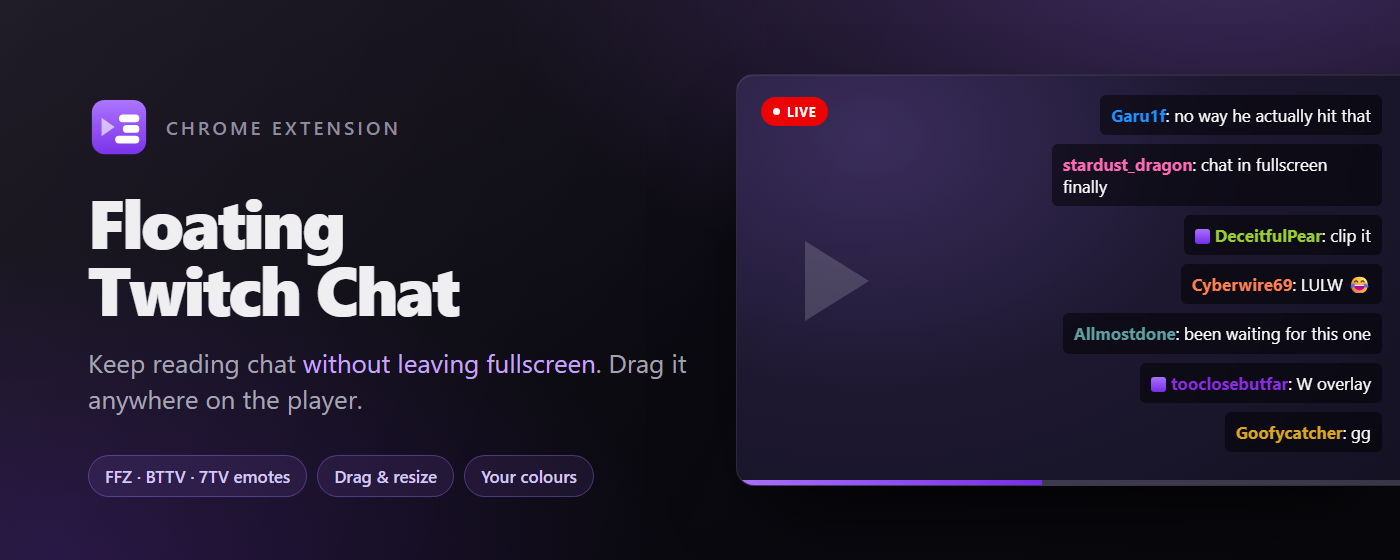
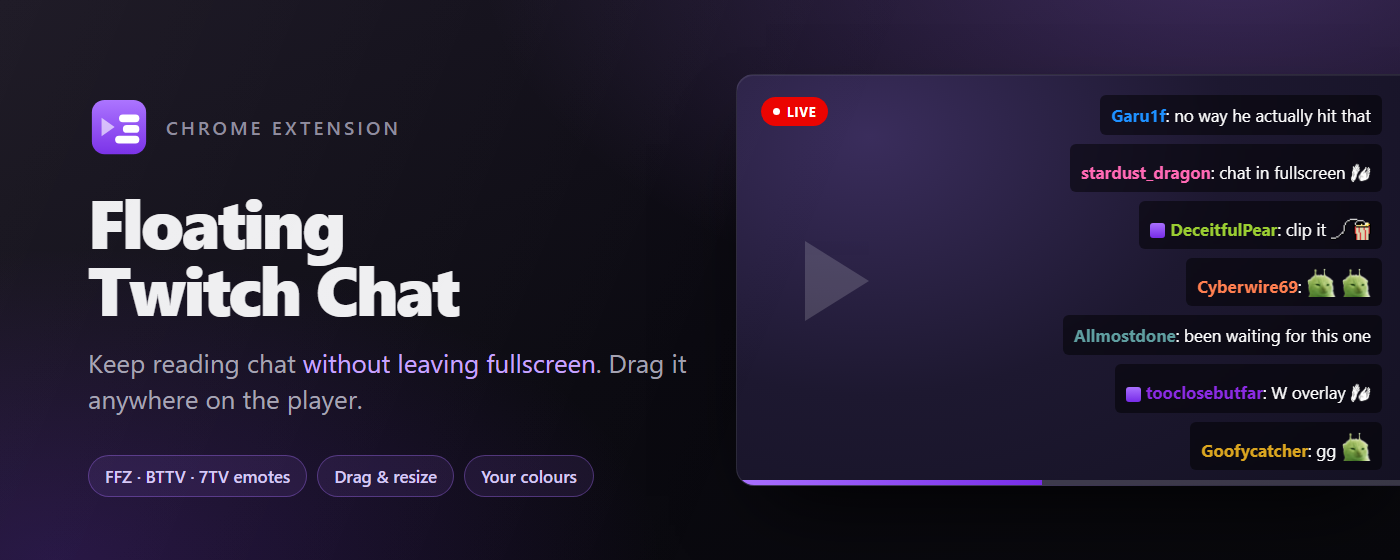
Use real 7TV emotes in the promo tiles
fetch-emotes.mjs pulls them from the same public v3 API and CDN the extension
reads, into store/promo/emotes/. The files are committed so rendering stays
offline and the artwork cannot change when an emote is re-uploaded; uploaders
are credited.

The set is small on purpose: an emote has to read at 20px, and since these are
commercial listing artwork, original art only -- no Pepe derivatives, no faces.

diff --git a/store/promo/small-tile-440x280.html b/store/promo/small-tile-440x280.html
@@ -61,7 +61,7 @@
 				top: 26px;
 				right: 16px;
 				gap: 7px;
-				width: 172px;
+				width: 180px;
 			}
 
 			.line {
@@ -76,6 +76,10 @@
 				width: 11px;
 				height: 11px;
 				margin-right: 4px;
+			}
+
+			.line img {
+				height: 22px;
 			}
 
 			.scrub {
@@ -123,17 +127,29 @@
 
 			<!-- Kept to messages that fit one line each: five wrapping bubbles turn
 			     this corner into a grey block at tile size. -->
+			<!-- The emotes sit on the shortest messages on purpose: at 180px a name,
+			     a sentence and an emote do not fit on one line, and a wrapped bubble
+			     turns this corner into a grey block. -->
 			<div class="chat">
-				<div class="line"><b style="color: #1e90ff">Garu1f</b>: no way</div>
+				<div class="line">
+					<b style="color: #1e90ff">Garu1f</b>: no way
+					<img src="emotes/nymnCorn.webp" alt="nymnCorn" />
+				</div>
 				<div class="line">
 					<b style="color: #ff69b4">stardust_dragon</b>: finally
+					<img src="emotes/Clap.webp" alt="Clap" />
 				</div>
 				<div class="line">
 					<b style="color: #9acd32"><i class="badge"></i>DeceitfulPear</b>: clip it
 				</div>
-				<div class="line"><b style="color: #ff7f50">Cyberwire69</b>: LULW 😂</div>
 				<div class="line">
-					<b style="color: #8a2be2"><i class="badge"></i>tooclose</b>: W overlay
+					<b style="color: #ff7f50">Cyberwire69</b>:
+					<img src="emotes/glorp.webp" alt="glorp" />
+					<img src="emotes/glorp.webp" alt="glorp" />
+				</div>
+				<div class="line">
+					<b style="color: #8a2be2"><i class="badge"></i>tooclose</b>: W
+					<img src="emotes/Clap.webp" alt="Clap" />
 				</div>
 			</div>
 

diff --git a/store/promo/marquee-1400x560.html b/store/promo/marquee-1400x560.html
@@ -125,6 +125,10 @@
 				height: 15px;
 				margin-right: 5px;
 			}
+
+			.line img {
+				height: 30px;
+			}
 		</style>
 	</head>
 	<body>
@@ -168,22 +172,29 @@
 						<b style="color: #1e90ff">Garu1f</b>: no way he actually hit that
 					</div>
 					<div class="line">
-						<b style="color: #ff69b4">stardust_dragon</b>: chat in fullscreen finally
+						<b style="color: #ff69b4">stardust_dragon</b>: chat in fullscreen
+						<img src="emotes/Clap.webp" alt="Clap" />
 					</div>
 					<div class="line">
-						<b style="color: #9acd32"
-							><i class="badge"></i>DeceitfulPear</b
-						>: clip it
+						<b style="color: #9acd32"><i class="badge"></i>DeceitfulPear</b>: clip it
+						<img src="emotes/nymnCorn.webp" alt="nymnCorn" />
 					</div>
-					<div class="line"><b style="color: #ff7f50">Cyberwire69</b>: LULW 😂</div>
+					<div class="line">
+						<b style="color: #ff7f50">Cyberwire69</b>:
+						<img src="emotes/glorp.webp" alt="glorp" />
+						<img src="emotes/glorp.webp" alt="glorp" />
+					</div>
 					<div class="line">
 						<b style="color: #5f9ea0">Allmostdone</b>: been waiting for this one
 					</div>
 					<div class="line">
 						<b style="color: #8a2be2"><i class="badge"></i>tooclosebutfar</b>: W
-						overlay
+						overlay <img src="emotes/Clap.webp" alt="Clap" />
 					</div>
-					<div class="line"><b style="color: #daa520">Goofycatcher</b>: gg</div>
+					<div class="line">
+						<b style="color: #daa520">Goofycatcher</b>: gg
+						<img src="emotes/glorp.webp" alt="glorp" />
+					</div>
 				</div>
 				<div class="scrub"><i style="width: 46%"></i></div>
 			</div>

diff --git a/store/promo/_shared.css b/store/promo/_shared.css
@@ -122,6 +122,12 @@ body {
 	font-weight: 700;
 }
 
+/* Real 7TV emotes out of emotes/. text-bottom is what the overlay itself uses
+   (public/css/root.css), so they sit on the line the same way here. */
+.line img {
+	vertical-align: text-bottom;
+}
+
 .badge {
 	display: inline-block;
 	vertical-align: -0.12em;

diff --git a/store/promo/README.md b/store/promo/README.md
@@ -22,6 +22,24 @@ Edit the HTML, re-render, commit both. `_shared.css` holds the palette, which is
 the popup's palette (`src/popup/popup.css`); the chat bubbles use
 `rgba(0,0,0,0.5)`, the overlay's real default `bgColor`.
 
+## Emotes
+
+The bubbles show real 7TV emotes, pulled from the same public v3 API and CDN the
+extension reads (`src/js/chat.js`):
+
+```bash
+node store/promo/fetch-emotes.mjs
+```
+
+They land in `emotes/` and are committed, so rendering needs no network and the
+artwork cannot change under us when someone re-uploads an emote. Uploaders are
+credited in [emotes/CREDITS.md](emotes/CREDITS.md).
+
+The set is deliberately small. An emote has to still read at 20px, and it has to
+be original art -- no Pepe derivatives and no real person's face, which is most
+of what is popular on Twitch. If you swap in others, keep both bars in mind: the
+tiles are commercial listing artwork, not chat.
+
 ## Still needed for a listing
 
 At least one screenshot, 1280×800 or 640×400. Take a real one of the overlay

diff --git a/store/promo/emotes/CREDITS.md b/store/promo/emotes/CREDITS.md
@@ -1,0 +1,11 @@
+# Emote credits
+
+Downloaded by `../fetch-emotes.mjs` from 7TV's global emote set. Each is the
+work of its uploader, linked below; they are used here to show what the overlay
+renders. Re-run the script to refresh.
+
+| Emote | 7TV | Uploader |
+| ----- | --- | -------- |
+| `glorp` | [01H16FA16G0005EZED5J0EY7KN](https://7tv.app/emotes/01H16FA16G0005EZED5J0EY7KN) | theballwiggleress |
+| `Clap` | [01GAM8EFQ00004MXFXAJYKA859](https://7tv.app/emotes/01GAM8EFQ00004MXFXAJYKA859) | sunkhaskasis |
+| `nymnCorn` | [01HM6NJ2X000035ZKVAPWBNW26](https://7tv.app/emotes/01HM6NJ2X000035ZKVAPWBNW26) | AnsonX10 |
